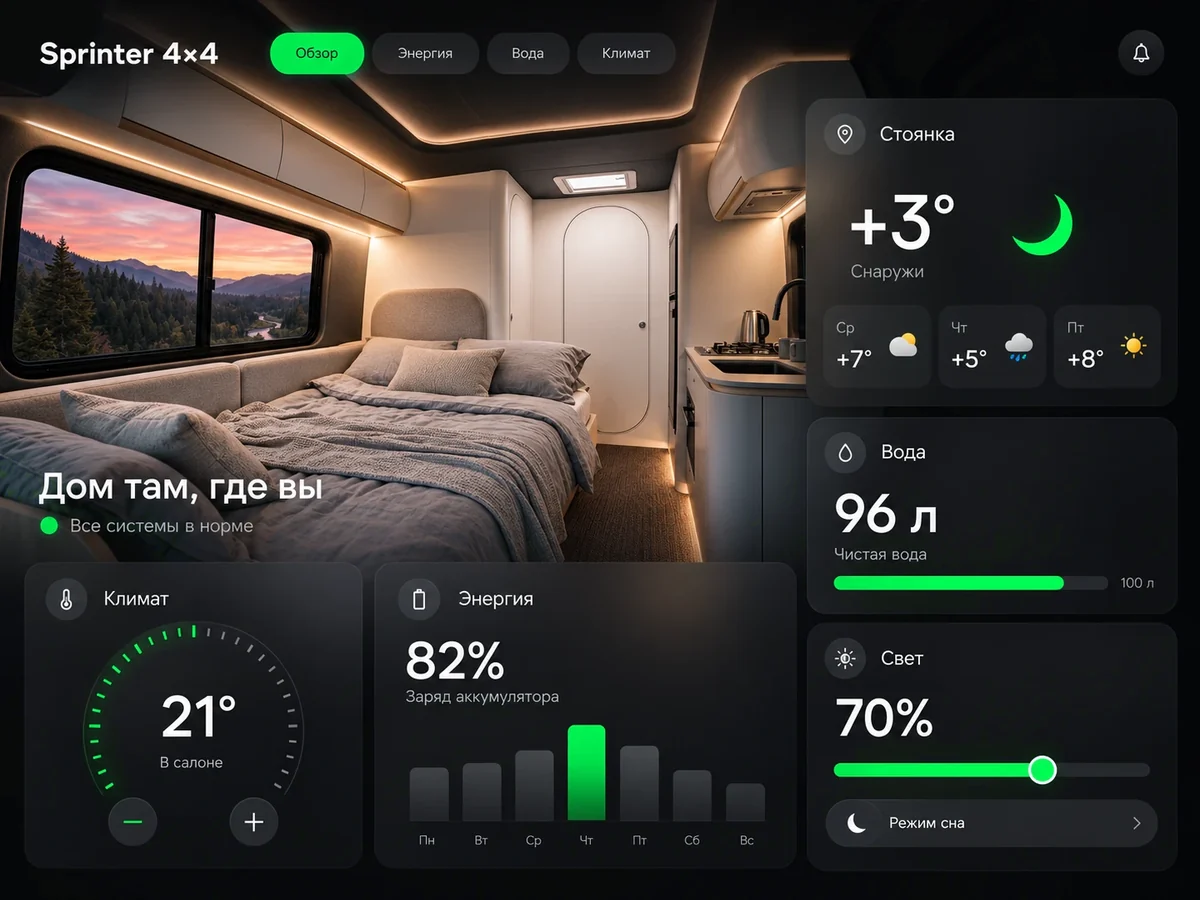
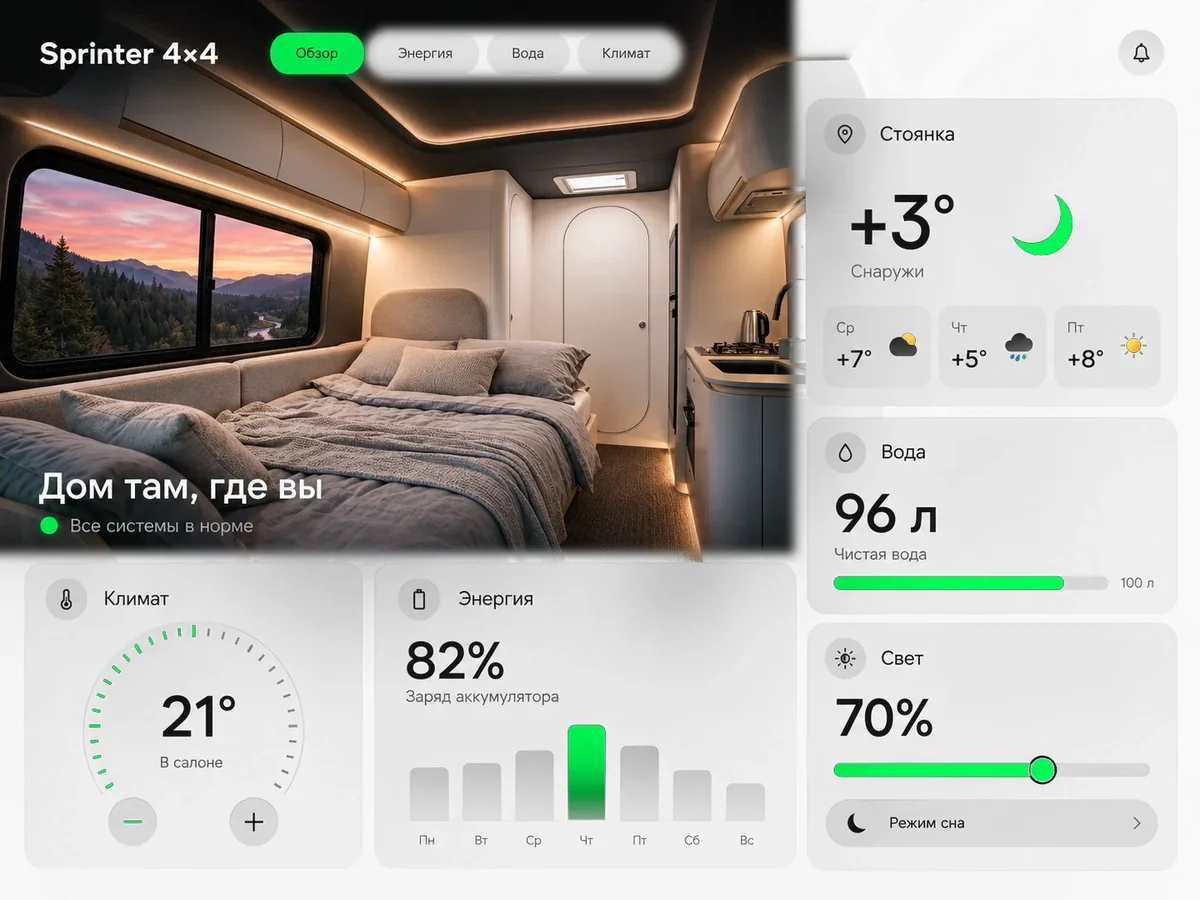
story: светлый экран приложения на планшете в светлой теме

diff --git a/story-schemes.js b/story-schemes.js
@@ -963,7 +963,7 @@
         root.innerHTML =
           '<div class="sxa-row">' +
             '<div class="sxa-hub"><svg viewBox="0 0 100 100" aria-hidden="true"><circle class="a-orbit" cx="50" cy="50" r="' + R + '"/>' + spokes + '</svg>' + nodes +
-              '<button type="button" class="a-core" data-k="sys" data-v="home" aria-label="Главный экран"><span class="a-tab"><i><img src="assets/story/ipad-ui.webp" alt="Главный экран автодома"></i></span><b>iPad Air 13″</b><small>на торпеде</small></button>' +
+              '<button type="button" class="a-core" data-k="sys" data-v="home" aria-label="Главный экран"><span class="a-tab"><i><img class="ui-day" src="assets/story/ipad-ui-day.webp" alt=""><img class="ui-night" src="assets/story/ipad-ui.webp" alt="Главный экран автодома"></i></span><b>iPad Air 13″</b><small>на торпеде</small></button>' +
             '</div>' +
             '<div class="sxa-right">' +
               '<div class="a-ipad"><div class="a-screen"><div class="a-bar"><span class="a-brand"><svg class="a-logo" viewBox="0 0 64 64" fill="none" aria-hidden="true"><g transform="translate(32 32) rotate(45) scale(.74) translate(-32 -32)"><path d="M12 4H21Q29 4 29 12V21.42A11 11 0 0 0 21.42 29H12Q4 29 4 21V12Q4 4 12 4Z" fill="currentColor" transform="rotate(0 32 32)"/><path d="M12 4H21Q29 4 29 12V21.42A11 11 0 0 0 21.42 29H12Q4 29 4 21V12Q4 4 12 4Z" fill="currentColor" transform="rotate(90 32 32)"/><path d="M12 4H21Q29 4 29 12V21.42A11 11 0 0 0 21.42 29H12Q4 29 4 21V12Q4 4 12 4Z" fill="currentColor" transform="rotate(180 32 32)"/><path d="M12 4H21Q29 4 29 12V21.42A11 11 0 0 0 21.42 29H12Q4 29 4 21V12Q4 4 12 4Z" fill="currentColor" transform="rotate(270 32 32)"/></g><circle cx="32" cy="32" r="5" fill="var(--logo-accent, #18FF64)"/></svg>Sprinter 4×4</span><button type="button" data-k="sys" data-v="home">Дом</button></div><div class="a-body"></div></div></div>' +
@@ -1014,7 +1014,7 @@
               ['sys', 'light', 'Открыть управление светом', 67.3, 69.2, 30.8, 19.5],
               ['ask', '3', 'Режим сна', 68, 88.5, 29, 6.5]
             ];
-            h = '<div class="a-dashboard"><img src="assets/story/ipad-ui.webp" alt="Главный экран Sprinter 4×4: салон, климат, энергия, вода и свет">' + homeTargets.map(function (t) {
+            h = '<div class="a-dashboard"><img class="ui-day" src="assets/story/ipad-ui-day.webp" alt=""><img class="ui-night" src="assets/story/ipad-ui.webp" alt="Главный экран Sprinter 4×4: салон, климат, энергия, вода и свет">' + homeTargets.map(function (t) {
               return '<button type="button" class="a-dashboard-hit" data-k="' + t[0] + '" data-v="' + t[1] + '" aria-label="' + esc(t[2]) + '" title="' + esc(t[2]) + '" style="left:' + t[3] + '%;top:' + t[4] + '%;width:' + t[5] + '%;height:' + t[6] + '%"></button>';
             }).join('') + '</div>';
           } else {

diff --git a/story.css b/story.css
@@ -211,7 +211,7 @@ a { color: inherit; }
 .story-tile.story-scheme { padding: clamp(20px, 2.4vw, 36px); justify-content: center; }
 .story-tile.story-scheme > [data-scheme] { width: 100%; }
 .story-tile.story-scheme-text { justify-content: flex-start; }
-.story-tile.story-scheme-text .story-h { font-size: clamp(22px, 9cqi, 36px); overflow-wrap: break-word; hyphens: auto; }
+.story-tile.story-scheme-text .story-h { font-size: clamp(22px, 9cqi, 36px); overflow-wrap: break-word; }
 .story-tile.story-scheme-text .story-p { font-size: clamp(14px, 1.05vw, 17px); }
 
 /* плавающая кнопка темы */

diff --git a/story-schemes.css b/story-schemes.css
@@ -518,3 +518,8 @@
 .sxa .a-dashboard .a-dashboard-hit:hover { background: rgba(24, 255, 100,.08); }
 .sxa .a-dashboard .a-dashboard-hit:focus-visible { outline: 2px solid var(--accent); outline-offset: -2px; }
 
+
+/* экран приложения: в светлой теме — светлая версия */
+.ui-day { display: none !important; }
+:root[data-theme="light"] .ui-day { display: block !important; }
+:root[data-theme="light"] .ui-night { display: none !important; }
